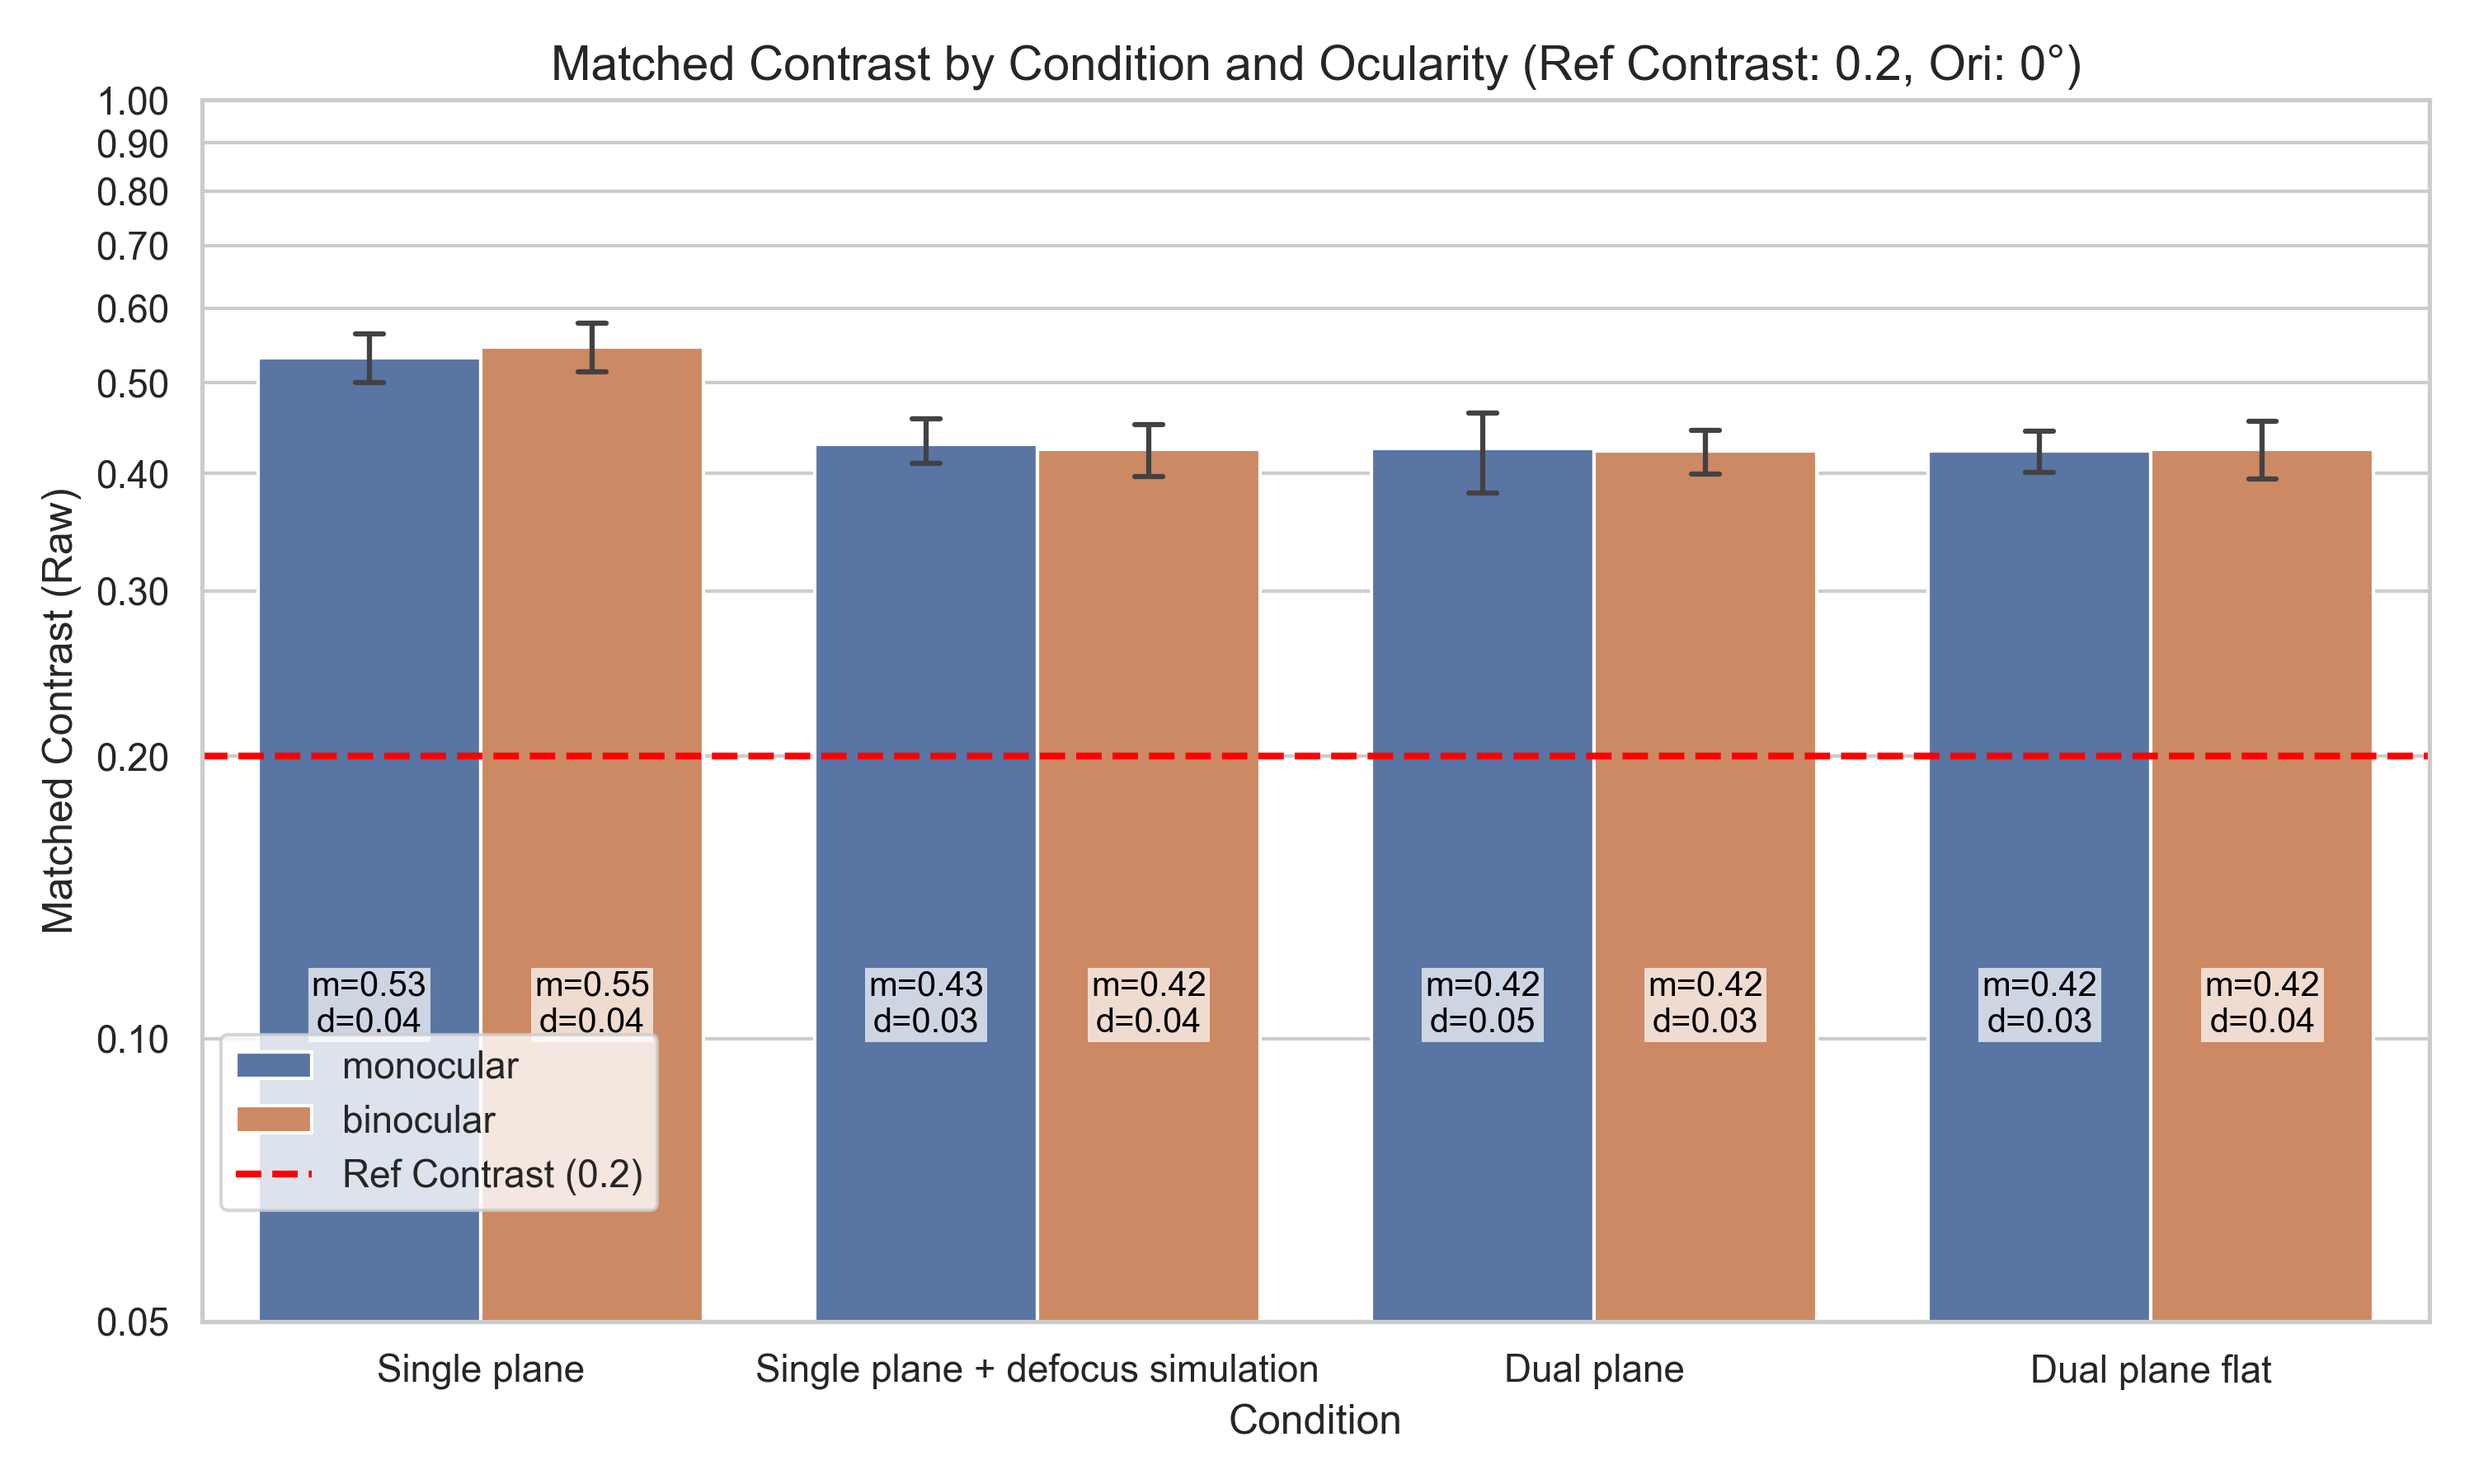
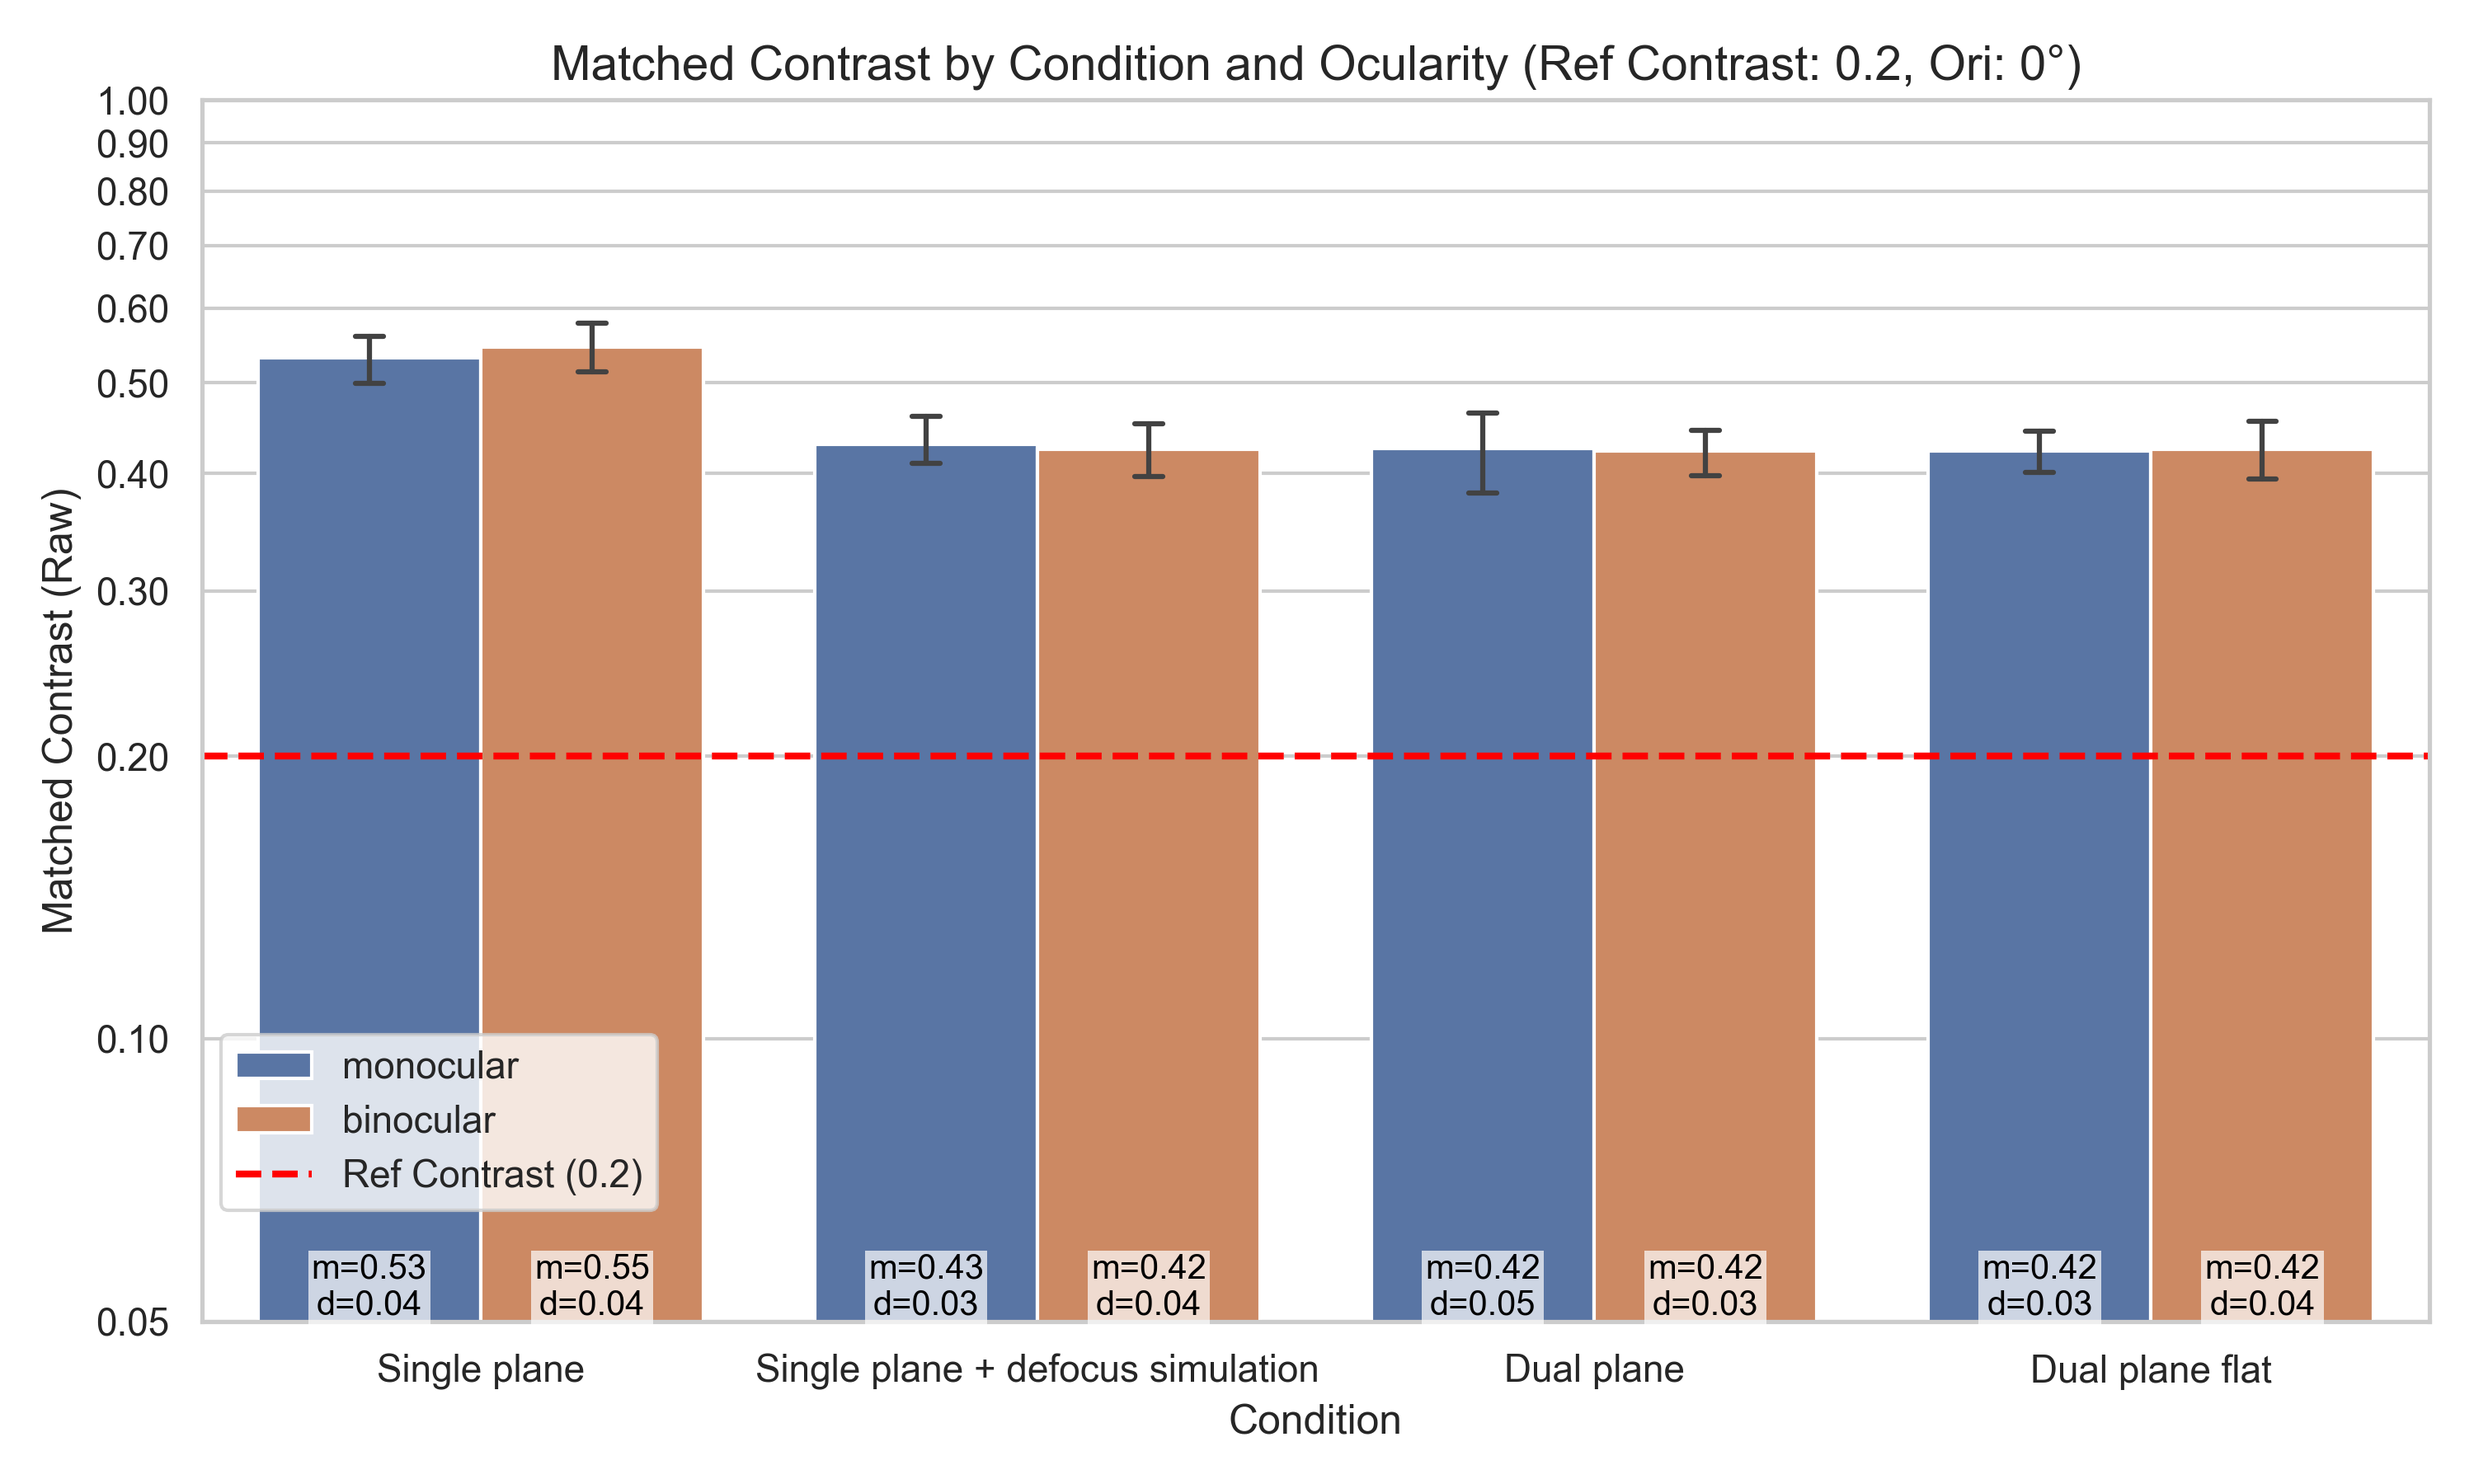
feat: 学習～プロット
- sigma>0, beta>=0, gamma=2.2
- Sの推定をプロット

diff --git a/src/experiment/pre_analyze/pre-analyze-matching-ar.py b/src/experiment/pre_analyze/pre-analyze-matching-ar.py
@@ -142,11 +142,15 @@ ModelC2 = preanalyze_models.ModelC2
 
 def get_effective_c_bg(row):
     if row['Condition'] == 'Single plane + defocus simulation':
-        pd_r = row.get('PD_Right', 0)
-        pd_l = row.get('PD_Left', 0)
-        pds = [p for p in (pd_r, pd_l) if pd.notna(p) and p > 0]
-        pd_mean = sum(pds) / len(pds) if pds else 4.0
-        return calculate_blur_attenuation_cached(pd_mean)
+        dom = row.get('Dominance', 'Right')
+        if dom == 'Right':
+            pd_val = row.get('PD_Right', 0)
+        else:
+            pd_val = row.get('PD_Left', 0)
+            
+        if pd.isna(pd_val) or pd_val <= 0:
+            pd_val = 4.0
+        return calculate_blur_attenuation_cached(pd_val)
     return 1.0
 
 # --- Enhanced contrast values ---
@@ -173,6 +177,11 @@ if not train_df.empty:
         loss = loss_fn(pred, C_train)
         loss.backward()
         opt.step()
+        
+        # 回帰タスクのため、Accuracyの代わりにMAE(平均絶対誤差)を計算して表示します
+        with torch.no_grad():
+            mae = torch.mean(torch.abs(pred - C_train)).item()
+        print(f"Epoch {ep+1}/{epochs} | Loss (MSE): {loss.item():.6f} | MAE: {mae:.6f}")
 
     # 学習済みパラメータを他モデルに流用
     models = {
@@ -185,7 +194,6 @@ if not train_df.empty:
         if name != 'ModelA':
             m.raw_sigma.data = modelA.raw_sigma.data.clone()
             m.raw_beta.data = modelA.raw_beta.data.clone()
-            m.raw_gamma.data = modelA.raw_gamma.data.clone()
 
     # データフレーム全体に対して予測を計算
     preds_A, preds_B, preds_C1, preds_C2 = [], [], [], []
@@ -193,11 +201,16 @@ if not train_df.empty:
         C_val = torch.tensor(float(row['Ref_Contrast']), dtype=torch.float32).to(device)
         M_val = torch.tensor(1.0, dtype=torch.float32).to(device)
         blur_val = torch.tensor(float(row.get('Effective_C_bg', 1.0)), dtype=torch.float32).to(device)
-        pd_r = row.get('PD_Right', 0)
-        pd_l = row.get('PD_Left', 0)
-        pds = [p for p in (pd_r, pd_l) if pd.notna(p) and p > 0]
-        pd_mean = sum(pds) / len(pds) if pds else 0.0
-        delta_D_val = torch.tensor(pd_mean, dtype=torch.float32).to(device)
+        
+        dom = row.get('Dominance', 'Right')
+        if dom == 'Right':
+            pd_val = row.get('PD_Right', 0)
+        else:
+            pd_val = row.get('PD_Left', 0)
+            
+        if pd.isna(pd_val) or pd_val <= 0:
+            pd_val = 0.0
+        delta_D_val = torch.tensor(pd_val, dtype=torch.float32).to(device)
 
         with torch.no_grad():
             gamma_A = models['ModelA'].gamma
@@ -234,77 +247,6 @@ if not train_df.empty:
     final_df['Pred_ModelC2'] = preds_C2
 else:
     print('Warning: No Single plane data found for training ModelA. Skipping model predictions.')
-for ref_c in unique_ref_contrasts:
-    for ori in unique_orientations:
-        plot_df = final_df[(final_df['Ref_Contrast'] == ref_c) & (final_df['Orientation'] == ori)]
-        if plot_df.empty:
-            continue
-            
-        fig, ax = plt.subplots(figsize=(10, 6))
-        
-        # 棒グラフと95%信頼区間のエラーバーを描画
-        sns.barplot(
-            data=plot_df, 
-            x='Condition', 
-            y='Matched_Contrast_AR', 
-            hue='Ocularity',
-            order=condition_order,
-            hue_order=ocularity_order,
-            errorbar=('ci', 95), 
-            capsize=0.1, 
-            err_kws={'linewidth': 1.5},
-            ax=ax
-        )
-        
-        # Ref_Contrastの値の高さに横方向の点線を引く (リファレンスは単体表示のため値がそのまま見た目のコントラスト)
-        ax.axhline(y=ref_c, color='red', linestyle='--', linewidth=2, label=f'Ref Contrast ({ref_c})')
-        
-        # 各バーの足元（内側）に平均(m)と分散/標準偏差(d)を記入
-        patch_idx = 0
-        for oc in ocularity_order:
-            for cond in condition_order:
-                if patch_idx < len(ax.patches):
-                    p = ax.patches[patch_idx]
-                    height = p.get_height()
-                    if pd.notna(height) and height > 0:
-                        subset = plot_df[(plot_df['Ocularity'] == oc) & (plot_df['Condition'] == cond)]
-                        if not subset.empty:
-                            m = subset['Matched_Contrast_AR'].mean()
-                            d = subset['Matched_Contrast_AR'].std() 
-                            
-                            x = p.get_x() + p.get_width() / 2
-                            y = 0.1  # バーの足元付近
-                            
-                            ax.text(x, y, f"m={m:.2f}\nd={d:.2f}", ha='center', va='bottom', color='black', fontsize=10,
-                                    bbox=dict(facecolor='white', alpha=0.7, edgecolor='none', pad=1))
-                    patch_idx += 1
-    
-        # グラフの見た目調整
-        ax.set_title(f'Matched AR Contrast by Condition and Ocularity (Ref Contrast: {ref_c}, Ori: {ori}°)', fontsize=14)
-        ax.set_ylabel('Matched Contrast (AR Extended)', fontsize=12)
-        ax.set_xlabel('Condition', fontsize=12)
-        ax.set_yscale('log') # 縦軸をログスケールに設定
-        
-        ax.set_ylim(0.05, 1.0) 
-        ax.set_yticks([0.05, 0.1, 0.2, 0.3, 0.4, 0.5, 0.6, 0.7, 0.8, 0.9, 1.0])
-        ax.yaxis.set_major_formatter(ticker.FormatStrFormatter('%.2f'))
-        
-        # x軸のラベルをそのまま表示（回転なし）
-        labels = ax.get_xticklabels()
-        ax.set_xticklabels(labels)
-        
-        # 凡例の設定
-        handles, labels = ax.get_legend_handles_labels()
-        ax.legend(handles=handles, labels=labels, bbox_to_anchor=(0, 0.25), loc='upper left', borderaxespad=0.5)
-        
-        plt.tight_layout()
-        
-        # 画像として保存 (ファイル名に _ar を追加)
-        filename = f'matched_ar_contrast_ref_{ref_c}_ori_{int(ori)}.png'
-        save_path = os.path.join(OUTPUT_DIR, filename)
-        plt.savefig(save_path, dpi=300)
-        print(f"グラフ保存: {filename}")
-        plt.close(fig)
 
 # --- 追加: エンハンスコントラストの計算とグラフ出力 ---
 _blur_attenuation_cache = {}
@@ -401,11 +343,15 @@ def calculate_blur_attenuation_cached(pd_mm, d_fg=50.0, d_bg=150.0, f_center_cpd
 
 def get_effective_c_bg(row):
     if row['Condition'] == 'Single plane + defocus simulation':
-        pd_r = row.get('PD_Right', 0)
-        pd_l = row.get('PD_Left', 0)
-        pds = [p for p in (pd_r, pd_l) if pd.notna(p) and p > 0]
-        pd_mean = sum(pds) / len(pds) if pds else 4.0
-        return calculate_blur_attenuation_cached(pd_mean)
+        dom = row.get('Dominance', 'Right')
+        if dom == 'Right':
+            pd_val = row.get('PD_Right', 0)
+        else:
+            pd_val = row.get('PD_Left', 0)
+            
+        if pd.isna(pd_val) or pd_val <= 0:
+            pd_val = 4.0
+        return calculate_blur_attenuation_cached(pd_val)
     return 1.0
 
 print("\n--- Calculating effective background contrast and Enhanced Contrast ---")
@@ -515,7 +461,7 @@ for ref_c in unique_ref_contrasts:
                             d = subset['Matched_Contrast'].std() 
                             
                             x = p.get_x() + p.get_width() / 2
-                            y = 0.1  # バーの足元付近
+                            y = 0.05  # バーの足元付近
                             
                             ax.text(x, y, f"m={m:.2f}\nd={d:.2f}", ha='center', va='bottom', color='black', fontsize=10,
                                     bbox=dict(facecolor='white', alpha=0.7, edgecolor='none', pad=1))
@@ -581,7 +527,7 @@ for ref_c in unique_ref_contrasts:
                             d = subset['Matched_Contrast_AR'].std() 
                             
                             x = p.get_x() + p.get_width() / 2
-                            y = 0.1  # バーの足元付近
+                            y = 0.05  # バーの足元付近
                             
                             ax.text(x, y, f"m={m:.2f}\nd={d:.2f}", ha='center', va='bottom', color='black', fontsize=10,
                                     bbox=dict(facecolor='white', alpha=0.7, edgecolor='none', pad=1))
@@ -590,10 +536,13 @@ for ref_c in unique_ref_contrasts:
         if models:
             pds = []
             for _, row in final_df.iterrows():
-                pd_r = row.get('PD_Right', 0)
-                pd_l = row.get('PD_Left', 0)
-                if pd.notna(pd_r) and pd_r > 0: pds.append(pd_r)
-                if pd.notna(pd_l) and pd_l > 0: pds.append(pd_l)
+                dom = row.get('Dominance', 'Right')
+                if dom == 'Right':
+                    pd_val = row.get('PD_Right', 0)
+                else:
+                    pd_val = row.get('PD_Left', 0)
+                if pd.notna(pd_val) and pd_val > 0:
+                    pds.append(pd_val)
             avg_pd = sum(pds) / len(pds) if pds else 4.0
             avg_blur = calculate_blur_attenuation_cached(avg_pd)
 
@@ -647,8 +596,8 @@ for ref_c in unique_ref_contrasts:
         ax.set_xlabel('Condition', fontsize=12)
         ax.set_yscale('log')
         
-        ax.set_ylim(0.1, 1.0) 
-        ax.set_yticks([0.1, 0.2, 0.3, 0.4, 0.5, 0.6, 0.7, 0.8, 0.9, 1.0])
+        ax.set_ylim(0.05, 1.0) 
+        ax.set_yticks([0.05, 0.1, 0.2, 0.3, 0.4, 0.5, 0.6, 0.7, 0.8, 0.9, 1.0])
         ax.yaxis.set_major_formatter(ticker.FormatStrFormatter('%.1f'))
         
         if models:

diff --git a/src/experiment/pre_analyze/pre-analyze-matching-models.py b/src/experiment/pre_analyze/pre-analyze-matching-models.py
@@ -102,14 +102,13 @@ class ContrastMatchingModelBase(nn.Module):
         # F.softplusを通して正の値に保つため、rawパラメータとして定義
         self.raw_sigma = nn.Parameter(torch.tensor(0.1))
         self.raw_beta = nn.Parameter(torch.tensor(1.0))
-        self.raw_gamma = nn.Parameter(torch.tensor(2.0)) # 初期値は2.0(一般的なトランスデューサーの非線形性)など
 
     @property
-    def sigma(self): return F.softplus(self.raw_sigma)
+    def sigma(self): return F.softplus(self.raw_sigma) + 1e-6  # 必ず正 (> 0) を保証
     @property
-    def beta(self): return F.softplus(self.raw_beta)
+    def beta(self): return F.relu(self.raw_beta)  # 0以上 (>= 0) を保証
     @property
-    def gamma(self): return F.softplus(self.raw_gamma)
+    def gamma(self): return torch.tensor(2.2, device=self.raw_sigma.device)
 
 class ModelA(ContrastMatchingModelBase):
     """ C = S^gamma / (sigma^gamma + beta * M^gamma) """
